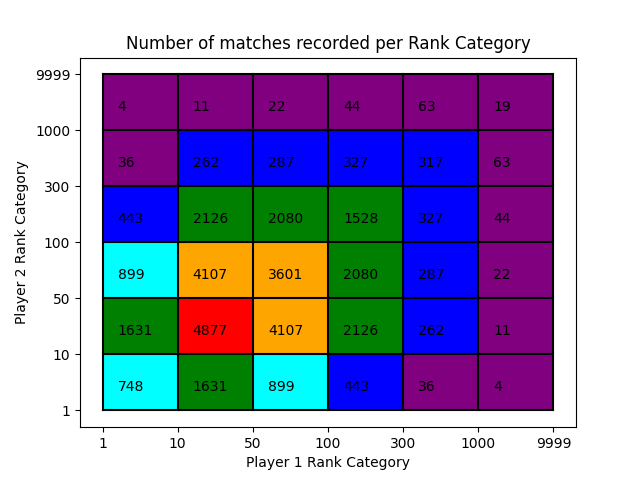
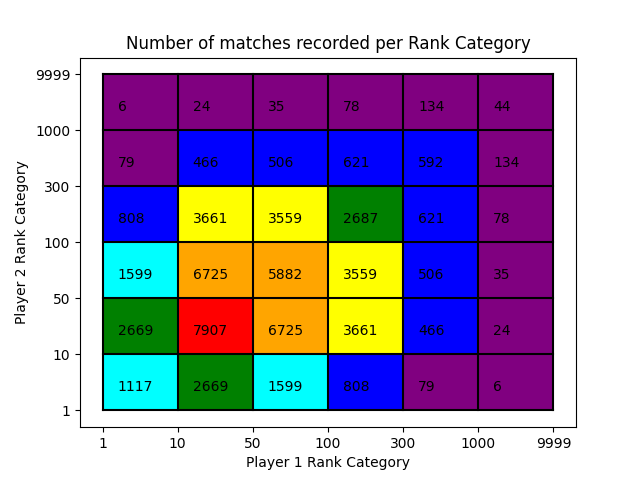
set date to 2002 for Stan whole carreer

diff --git a/examples/data/data_loading.py b/examples/data/data_loading.py
@@ -16,7 +16,7 @@ data_df = matches_data_loader(
     path_to_data="../../submodules/tennis_atp",
     path_to_cache="../../cache",
     flush_cache=False,
-    keep_values_from_year=2010,
+    keep_values_from_year=2002,
     get_match_statistics=True,
     get_reversed_match_data=True,
 )
@@ -129,15 +129,16 @@ stan_df = stan_df.reset_index()
 
 for n_row, row in stan_df.iterrows():
     matches = [r[0] for r in ast.literal_eval(row["Matches_1"])]
-    overall_v.append(matches.count("V") / len(matches) * 100)
-    last_hundred_v.append(matches[-100:].count("V") / len(matches[-100:]) * 100)
+    if len(matches) > 0:
+        overall_v.append(matches.count("V") / len(matches) * 100)
+        last_hundred_v.append(matches[-100:].count("V") / len(matches[-100:]) * 100)
 
-    if str(row["tournament_date"])[:4] not in [d[0] for d in dates]:
-        dates.append((str(row["tournament_date"])[:4], n_row))
-    overall_clay.append(row["Clay_Victories_Percentage_1"])
-    overall_grass.append(row["Grass_Victories_Percentage_1"])
-    overall_hard.append(row["Hard_Victories_Percentage_1"])
-    overall_carpet.append(row["Carpet_Victories_Percentage_1"])
+        if str(row["tournament_date"])[:4] not in [d[0] for d in dates]:
+            dates.append((str(row["tournament_date"])[:4], n_row))
+        overall_clay.append(row["Clay_Victories_Percentage_1"])
+        overall_grass.append(row["Grass_Victories_Percentage_1"])
+        overall_hard.append(row["Hard_Victories_Percentage_1"])
+        overall_carpet.append(row["Carpet_Victories_Percentage_1"])
 plt.figure()
 plt.plot(overall_v, label="overall")
 plt.plot(last_hundred_v, label="last 100 matches")
